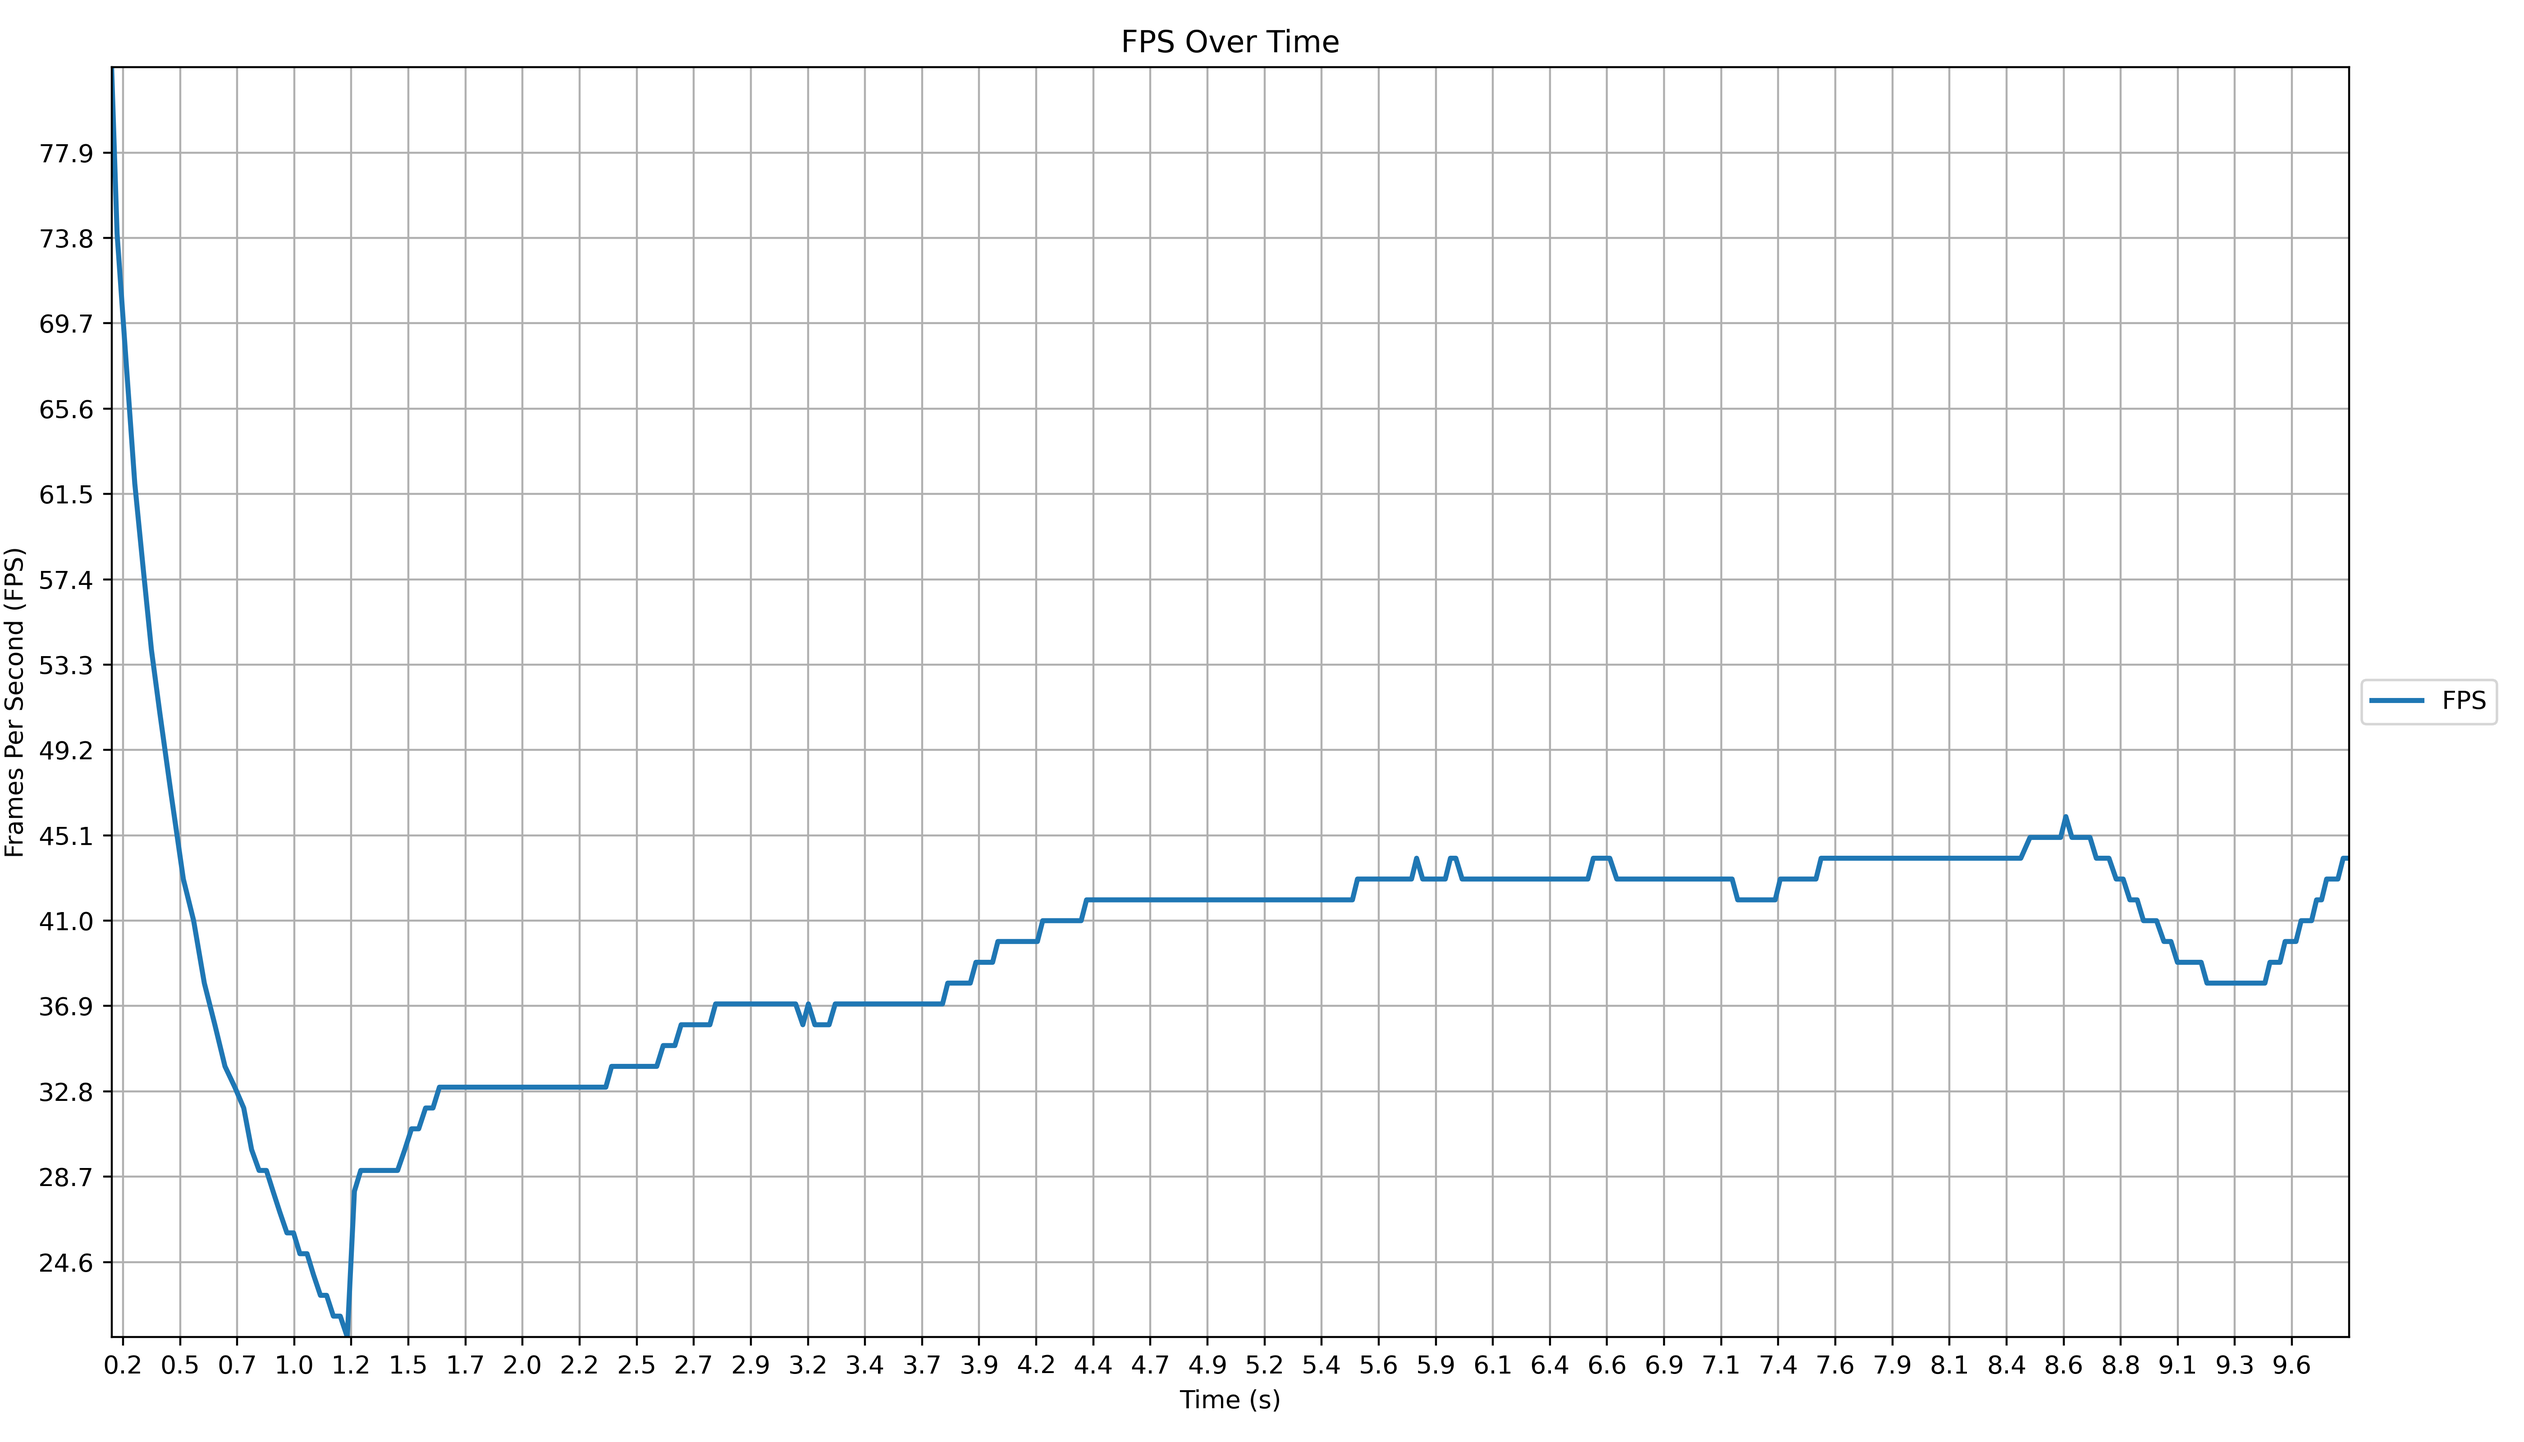
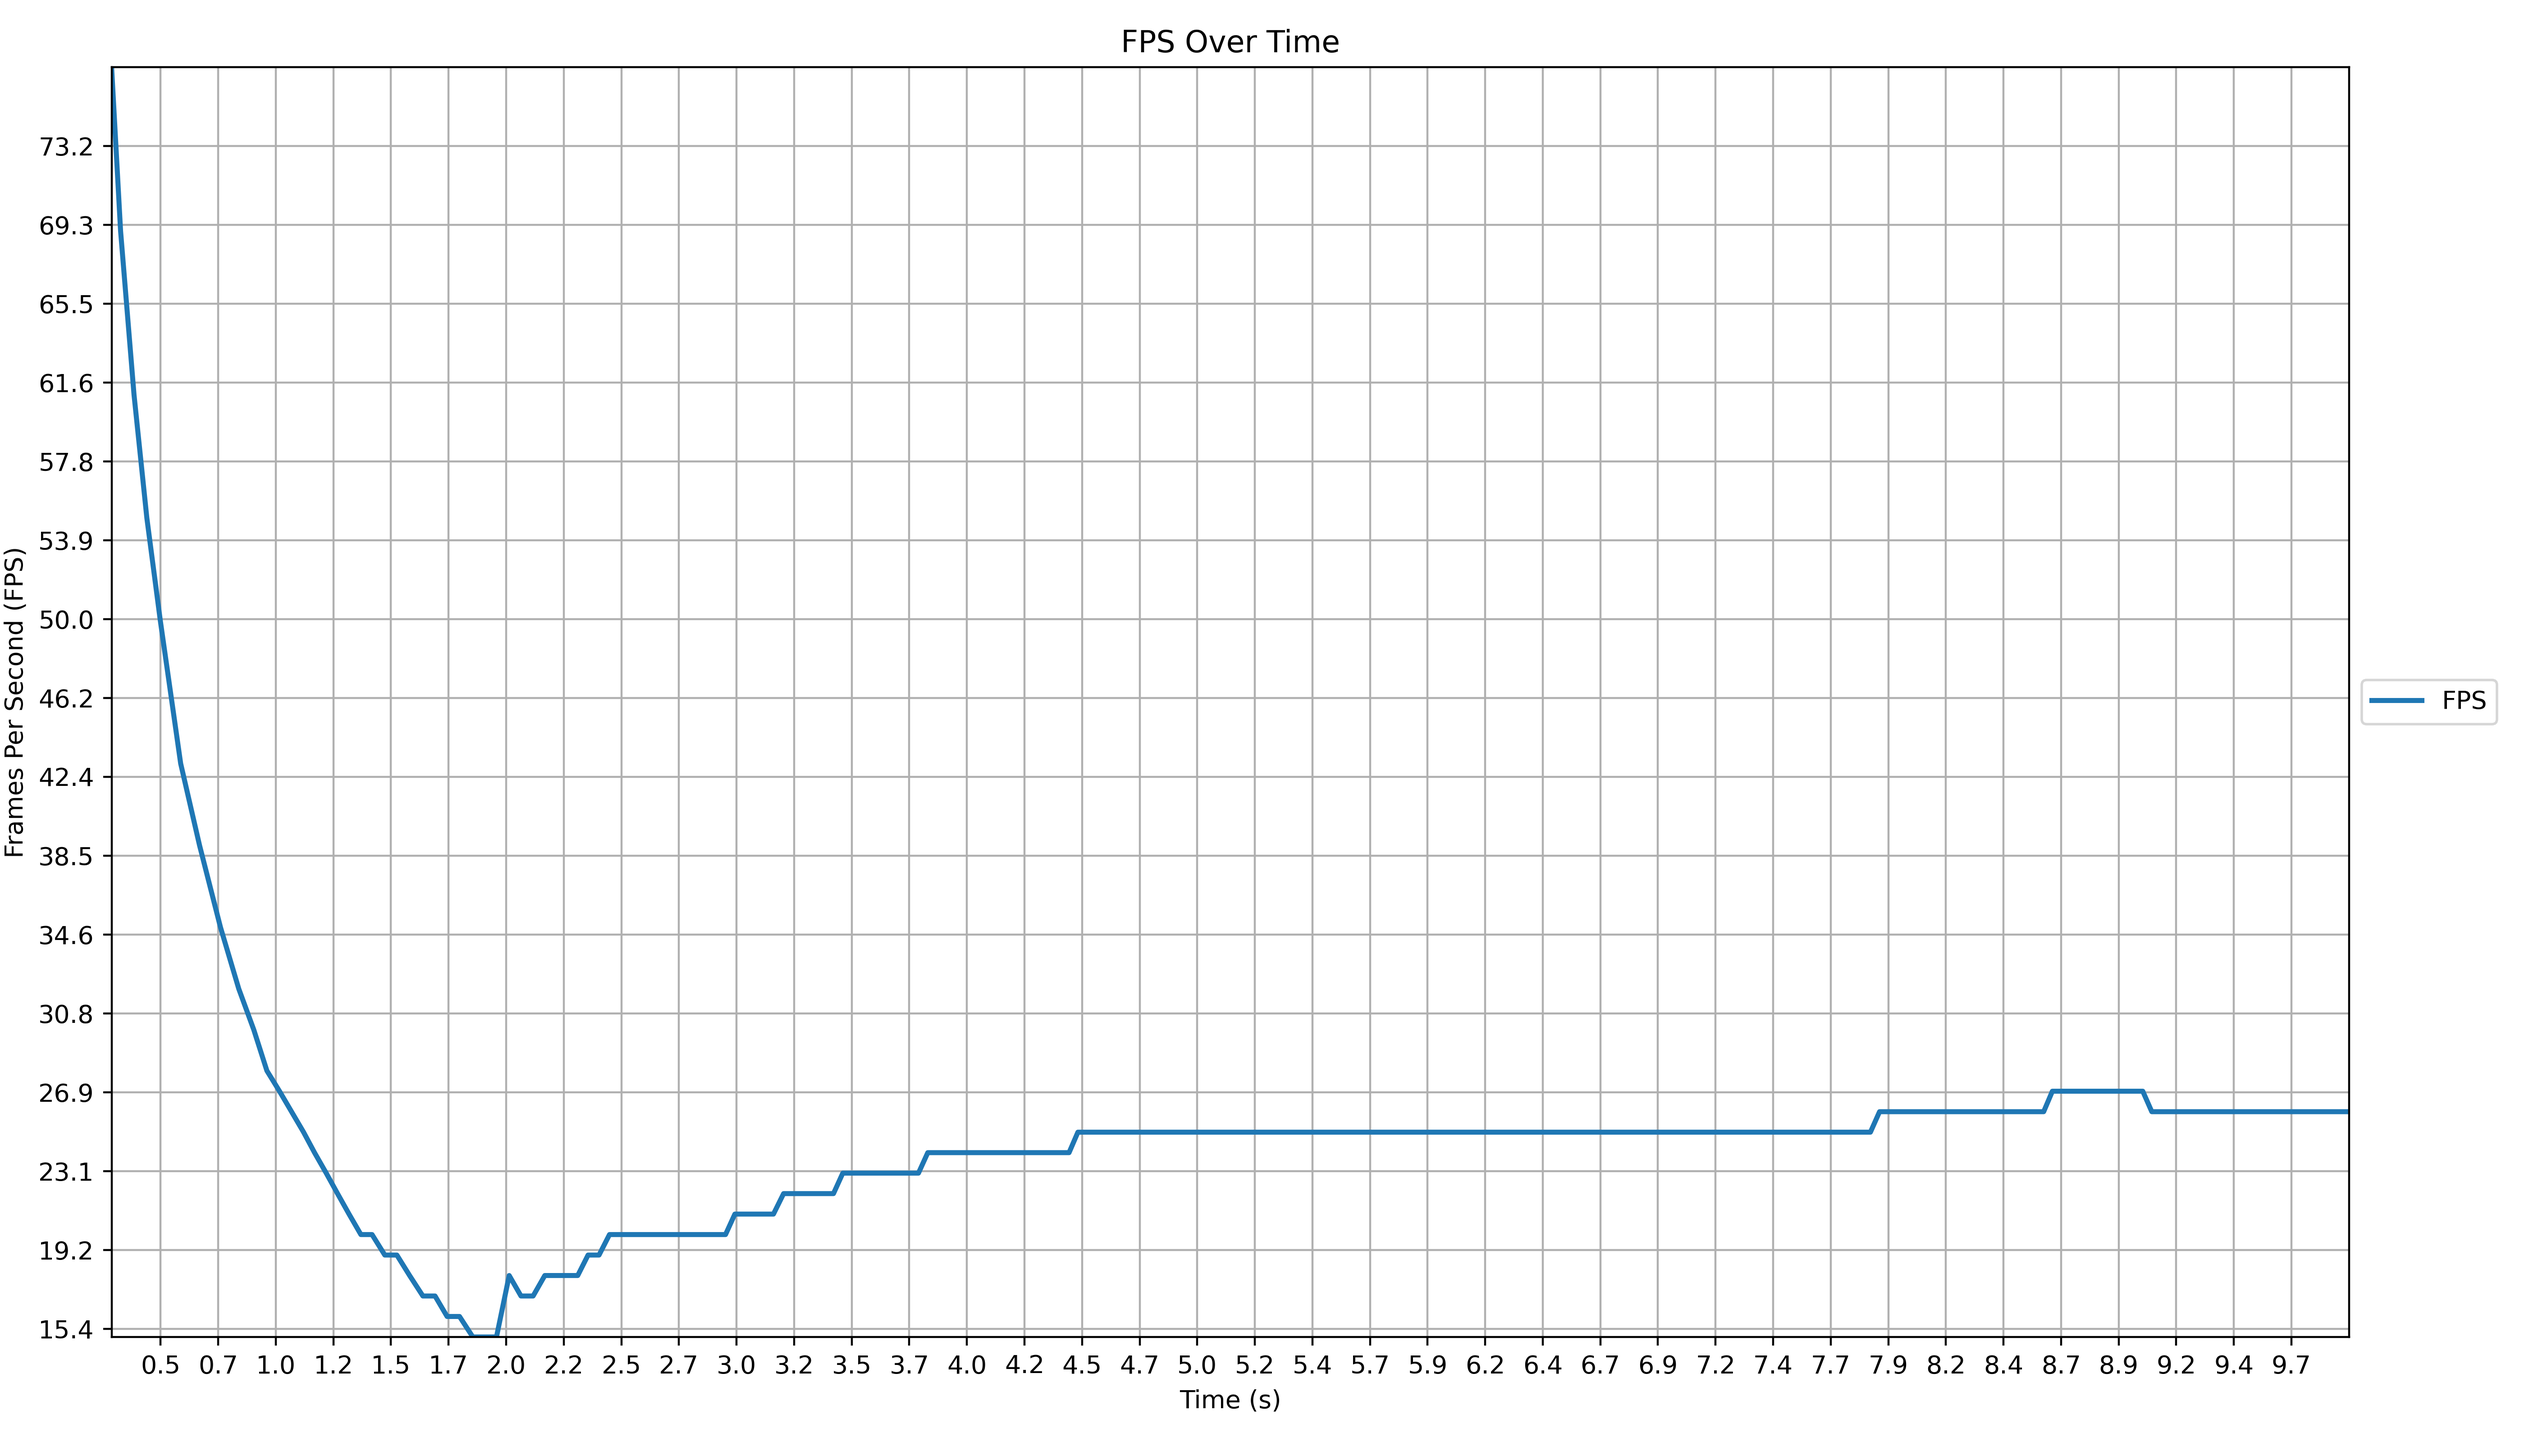
Increase number of instances in physics benchmark

Changed region(s): [[0.0, 0.0938, 0.9375, 0.9688]]

diff --git a/benchmarks/physics/__init__.py b/benchmarks/physics/__init__.py
@@ -6,7 +6,7 @@ extro.Services.WorldService.set_tile_size(6)
 extro.Window.set_title("Physics Benchmark")
 extro.Window.set_size(extro.Vector2(700, 700))
 
-NUMBER_OF_INSTANCES: int = 1000
+NUMBER_OF_INSTANCES: int = 2500
 
 benchmarker.start_tracking(
     "./benchmarks/physics",

diff --git a/benchmarks/physics/report.md b/benchmarks/physics/report.md
@@ -1,23 +1,23 @@
 # Physics Benchmark Report
 
-This benchmark ran for 9.82 seconds and captured 374 data points.
+This benchmark ran for 9.91 seconds and captured 228 data points.
 
 ### Benchmark Information
 
-- Number of Instances: 1000
+- Number of Instances: 2500
 
 ### Average System Response Times
 
-Average FPS: 40.02
+Average FPS: 25.06
 
 - timing: 0.01 ms
-- input: 0.03 ms
-- transform: 7.12 ms
-- ui: 0.01 ms
-- collision: 6.85 ms
-- physics: 10.50 ms
+- input: 0.02 ms
+- transform: 11.40 ms
+- ui: 0.00 ms
+- collision: 13.64 ms
+- physics: 17.54 ms
 - animation: 0.02 ms
-- render: 2.58 ms
+- render: 3.21 ms
 - audio: 0.01 ms
 
 ### System Specifications
